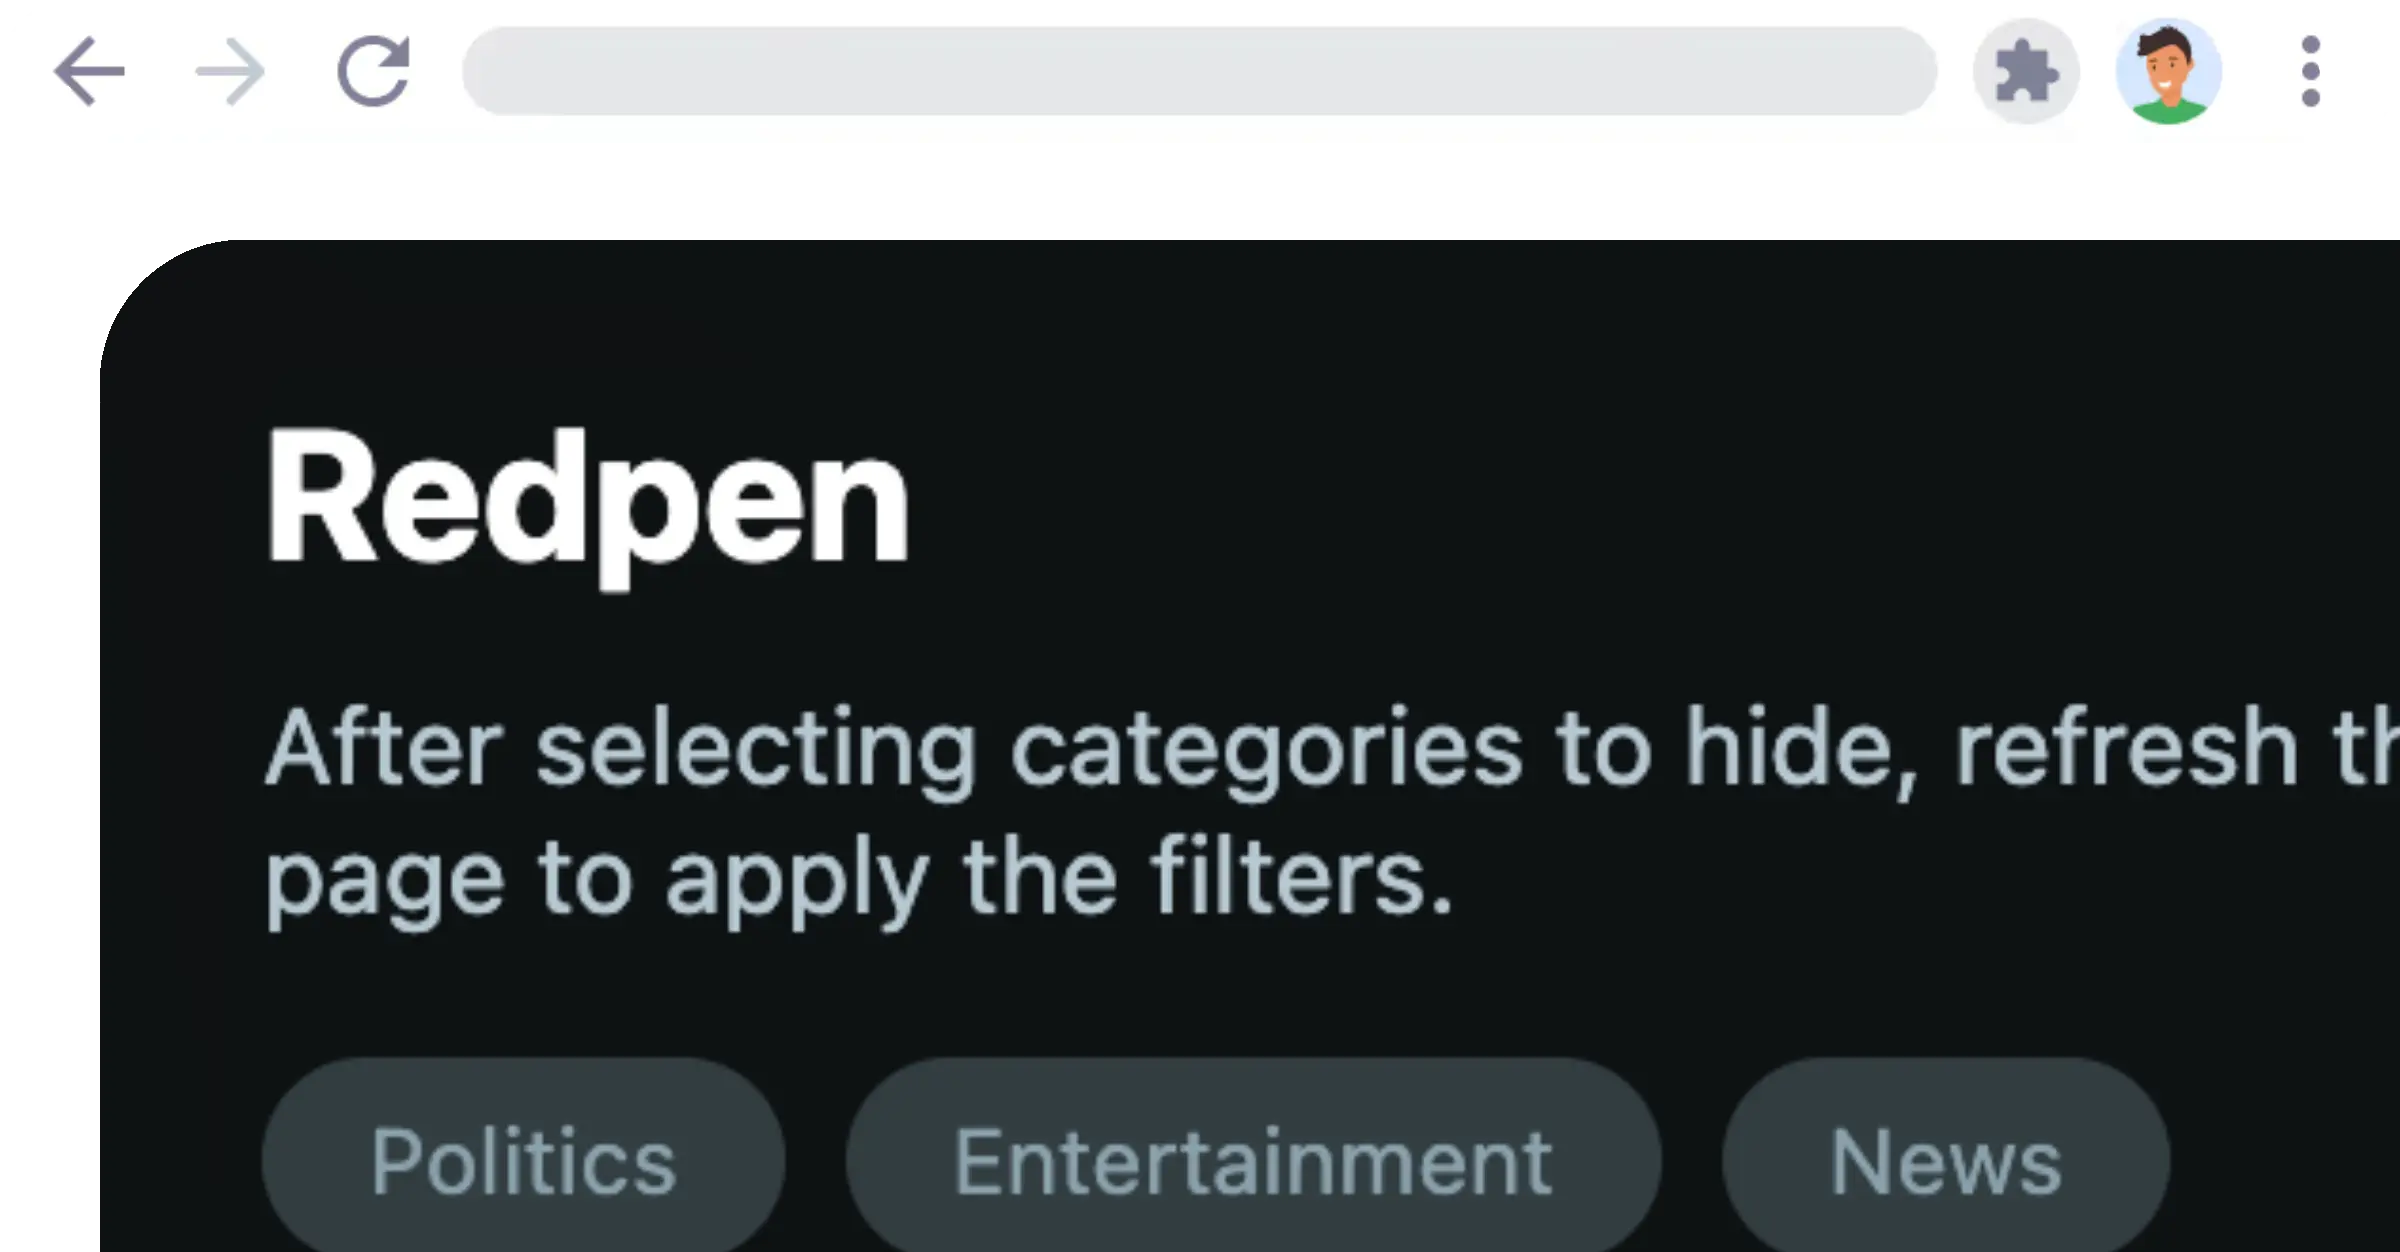
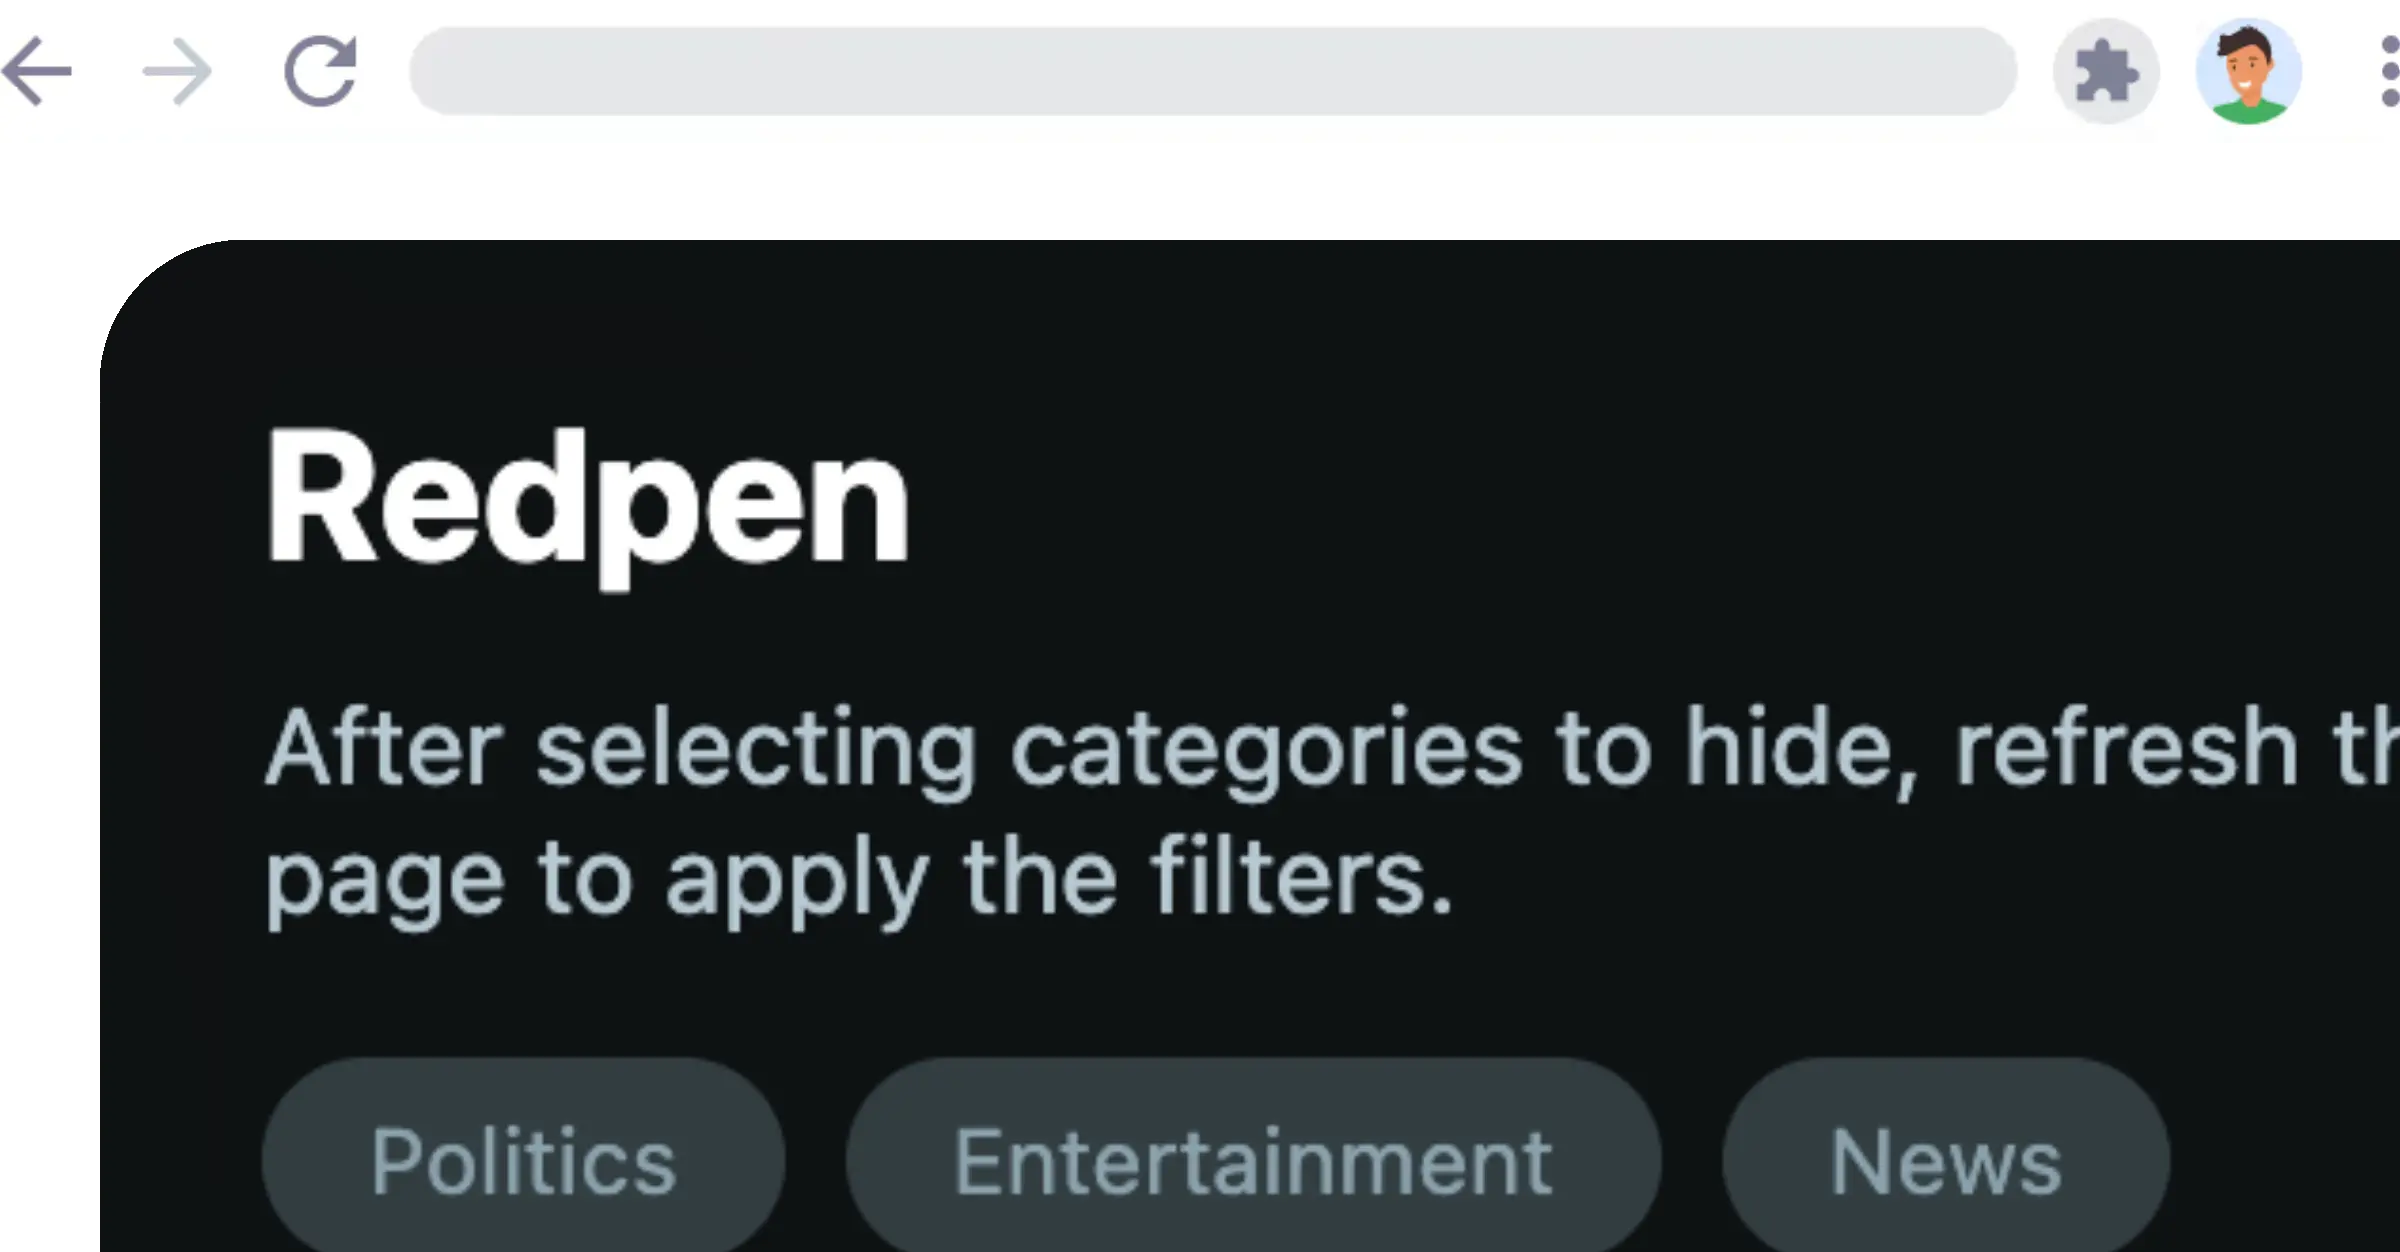
mobile optimizations

Changed region(s): [[0.7812, 0.0, 1.0, 0.1246], [0.0, 0.0312, 0.2188, 0.0935]]

diff --git a/styles.css b/styles.css
@@ -154,7 +154,7 @@ h1.fade-in::after {
 .content::after {
 	content: "";
 	position: absolute;
-	top: -100vh;
+	top: 0;
 	bottom: 0;
 	width: max(0px, calc((100vw - 100%) / 2));
 	pointer-events: none;
@@ -167,9 +167,9 @@ h1.fade-in::after {
 		560px 454px,
 		470px 798px;
 	background-position:
-		17px 31px,
-		123px 57px,
-		41px 141px;
+		17px calc(31px - 100svh),
+		123px calc(57px - 100svh),
+		41px calc(141px - 100svh);
 	background-repeat: repeat, repeat, repeat;
 	z-index: -1;
 }
@@ -236,8 +236,7 @@ h1.fade-in::after {
 		);
 }
 
-.about-highlight-red::after,
-.projects-link-highlight-redpen::after {
+.about-highlight-red::after {
 	background-image:
 		radial-gradient(140% 120% at 0% 90%, #e77a6c 0 24%, transparent 25%),
 		radial-gradient(140% 120% at 22% 10%, #d24836 0 24%, transparent 25%),
@@ -256,9 +255,11 @@ h1.fade-in::after {
 		);
 }
 
-.about-1-text:hover .about-highlight::after,
-.about-3-text:hover .about-highlight::after {
-	opacity: 1;
+@media (hover: hover) and (pointer: fine) {
+	.about-1-text:hover .about-highlight::after,
+	.about-3-text:hover .about-highlight::after {
+		opacity: 1;
+	}
 }
 
 .about-2 {
@@ -362,59 +363,22 @@ projects-b-* is body
 	padding-bottom: 0.5em;
 }
 
-.projects-h-link {
-	text-decoration-line: none;
+.projects-title-row {
+	display: inline-flex;
+	align-items: center;
+	gap: 0.4em;
 }
 
-.projects-link-highlight-cdcs,
-.projects-link-highlight-redpen {
-	position: relative;
-	display: inline-block;
-	color: #121011;
+.projects-title-row a {
+    display: inline-flex;
+    align-items: center;
 }
 
-.projects-link-highlight-cdcs::after,
-.projects-link-highlight-redpen::after {
-	content: attr(data-text);
-	position: absolute;
-	inset: 0;
-	background-size: 170% 170%;
-	background-position: 50% 50%;
-	background-clip: text;
-	-webkit-background-clip: text;
-	color: transparent;
-	-webkit-text-fill-color: transparent;
-	opacity: 0;
-	transition: opacity 0.3s ease;
-	pointer-events: none;
-}
-
-.projects-link-highlight-cdcs::after {
-	background-image:
-		radial-gradient(140% 120% at 0% 90%, #7a74f0 0 24%, transparent 25%),
-		radial-gradient(140% 120% at 22% 10%, #4f47e6 0 24%, transparent 25%),
-		radial-gradient(140% 120% at 46% 88%, #a6a2f8 0 24%, transparent 25%),
-		radial-gradient(140% 120% at 70% 18%, #3429c9 0 24%, transparent 25%),
-		radial-gradient(140% 120% at 94% 82%, #655dea 0 24%, transparent 25%),
-		repeating-linear-gradient(
-			105deg,
-			#7a74f0 0 14%,
-			#4f47e6 14% 28%,
-			#a6a2f8 28% 42%,
-			#3429c9 42% 56%,
-			#655dea 56% 70%,
-			#4f47e6 70% 84%,
-			#a6a2f8 84% 100%
-		);
-}
-
-.projects-h-link:hover .projects-link-highlight-cdcs::after,
-.projects-h-link:hover .projects-link-highlight-redpen::after {
-	opacity: 1;
-}
-
-.projects-h-link:visited {
-	color: #121011;
+.projects-mini-icon {
+	display: block;
+	width: 0.95em;
+	height: 0.95em;
+	flex: 0 0 auto;
 }
 
 .projects-img {

diff --git a/index.html b/index.html
@@ -88,13 +88,24 @@
 				
 				<div id="projects" class="content">
 					<p class="projects-h">
-						<a href="https://github.com/svhl/cdcs" target="_blank" class="projects-h-link" title="Visit the GitHub repo"><span class="projects-link-highlight-cdcs" data-text="Corporate Device Control Suite">Corporate Device Control Suite</span></a><br />
+						<span class="projects-title-row">
+							<span>Corporate Device Control Suite</span>
+							<a href="https://github.com/svhl/cdcs" target="_blank" title="Visit the GitHub repo">
+								<img src="./icons/github-mini.svg" alt="GitHub" class="projects-mini-icon">
+							</a>
+						</span><br />
 					</p>
 					<img src="./thumbnails/cdcs.webp" alt="Corporate Device Control Suite" class="projects-img projects-img-1">
 					<p class="projects-b">An MDM solution for Linux desktops with a focus on privacy, modularity, and ease of development using web frameworks.</p>
 
 					<p class="projects-h">
-						<a href="https://github.com/svhl/redpen" target="_blank" class="projects-h-link" title="Visit the GitHub repo"><span class="projects-link-highlight-redpen" data-text="Redpen">Redpen</span></a><br />
+						<span class="projects-title-row">
+							<span>Redpen</span>
+							<a href="https://github.com/svhl/redpen" target="_blank" title="Visit the GitHub repo">
+								<img src="./icons/github-mini.svg" alt="GitHub" class="projects-mini-icon">
+							</a>
+							<img src="./icons/firefox-mini.svg" title="Firefox extension coming soon..." alt="Firefox" class="projects-mini-icon">
+						</span><br />
 					</p>
 					<img src="./thumbnails/redpen.webp" alt="Redpen" class="projects-img projects-img-2">
 					<p class="projects-b">A browser extension to filter politics, entertainment, and news from Reddit via a locally running lightweight AI model.</p>
